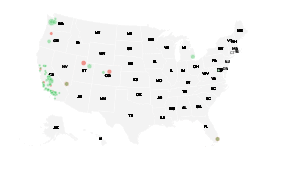
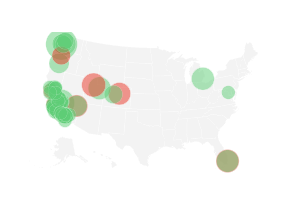
images update

diff --git a/src/vizualization/map.tsx b/src/vizualization/map.tsx
@@ -4,6 +4,7 @@ import SideBar from '../components/SideBar'
 import stateView from '../images/stateView.png'
 import countiesViewImage from '../images/countiesView.png'
 import zipCodeViewImage from '../images/zipCodeViews.png'
+import transitViewImage from '../images/TransitView.png'
 import MapViz from './MapViz'
 import { MapProps, Data } from '../types'
 import ZoomButtons from '../components/ZoomButtons'
@@ -46,7 +47,7 @@ function UsMap(params: MapProps) {
     },
     {
       label: 'Transit View',
-      imageSrc: zipCodeViewImage,
+      imageSrc: transitViewImage,
       position: 250,
       onClick: () => {
         setView('transit')

diff --git a/src/vizualization/TransitArrows.ts b/src/vizualization/TransitArrows.ts
@@ -7,6 +7,7 @@ function drawTransitArrows(transitData: any, g: any) {
 
   // Remove existing arrows
   g.selectAll('.arrow').remove()
+  g.selectAll('.circle').remove()
 
   // Append new arrows if there is transit data
   if (transitData.length) {
